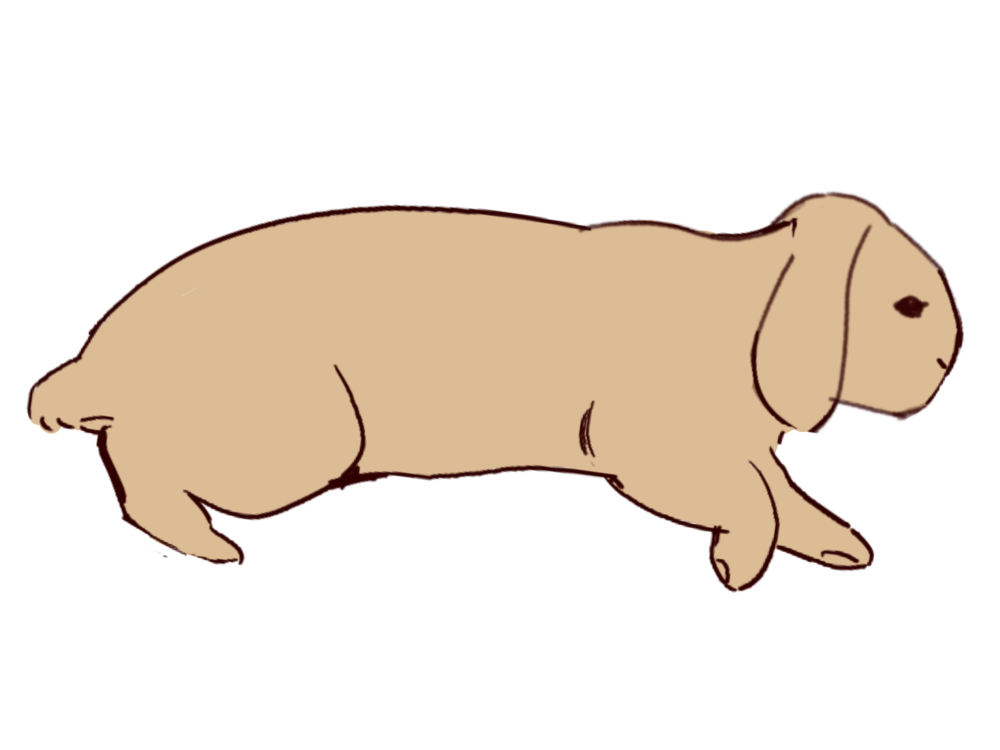
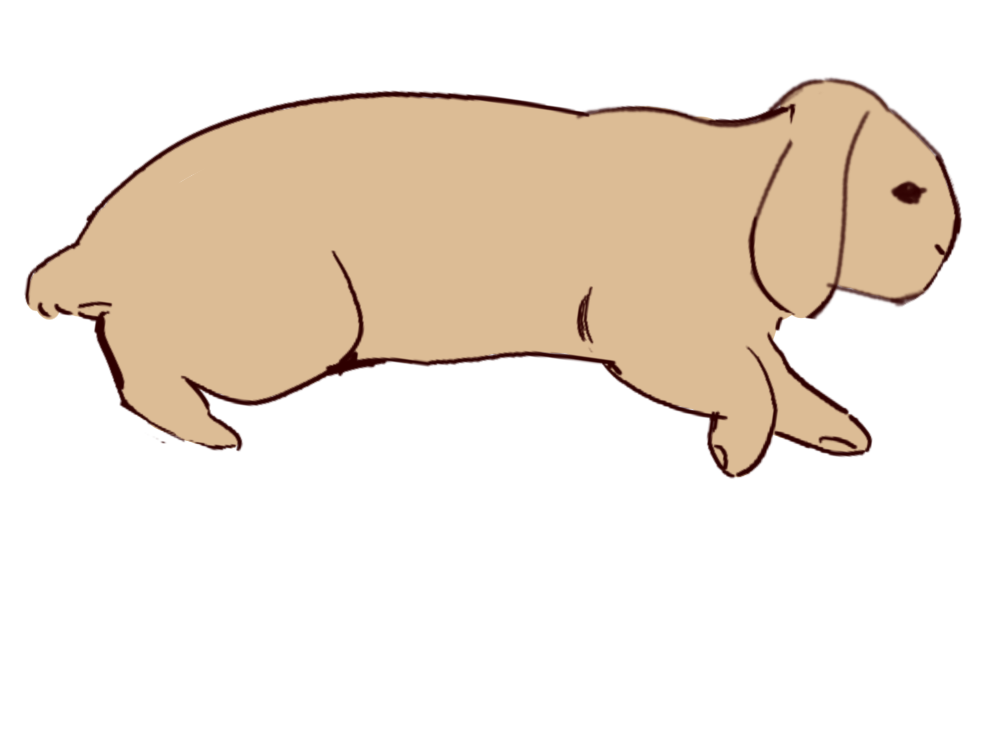
rabbit animation
updated rabbit + imported more images

diff --git a/libraries/phenakistoscope.bundle.js b/libraries/phenakistoscope.bundle.js
@@ -1,3 +1,3 @@
-const FRAME_RATE = 24
+const FRAME_RATE = 18
 
 !function(e){var n={};function t(i){if(n[i])return n[i].exports;var o=n[i]={i:i,l:!1,exports:{}};return e[i].call(o.exports,o,o.exports,t),o.l=!0,o.exports}t.m=e,t.c=n,t.d=function(e,n,i){t.o(e,n)||Object.defineProperty(e,n,{enumerable:!0,get:i})},t.r=function(e){"undefined"!=typeof Symbol&&Symbol.toStringTag&&Object.defineProperty(e,Symbol.toStringTag,{value:"Module"}),Object.defineProperty(e,"__esModule",{value:!0})},t.t=function(e,n){if(1&n&&(e=t(e)),8&n)return e;if(4&n&&"object"==typeof e&&e&&e.__esModule)return e;var i=Object.create(null);if(t.r(i),Object.defineProperty(i,"default",{enumerable:!0,value:e}),2&n&&"string"!=typeof e)for(var o in e)t.d(i,o,function(n){return e[n]}.bind(null,o));return i},t.n=function(e){var n=e&&e.__esModule?function(){return e.default}:function(){return e};return t.d(n,"a",n),n},t.o=function(e,n){return Object.prototype.hasOwnProperty.call(e,n)},t.p="",t(t.s=0)}([function(e,n,t){e.exports=t(1)},function(e,n,t){"use strict";t.r(n);var i=new function(){this.phenakistoscope=void 0,this.ccapturer=void 0,this.p5=void 0,this.gfx=void 0,this.canvas=void 0};function o(e,n){for(var t=0;t<n.length;t++){var i=n[t];i.enumerable=i.enumerable||!1,i.configurable=!0,"value"in i&&(i.writable=!0),Object.defineProperty(e,i.key,i)}}var a=function(){function e(n){!function(e,n){if(!(e instanceof n))throw new TypeError("Cannot call a class as a function")}(this,e),this._total_images_to_load=0,this._loaded_images=0,this._images={},this._image_sequences={}}var n,t,a;return n=e,(t=[{key:"load_image",value:function(e,n){this._total_images_to_load++,this._images[e]=i.p5.loadImage("./assets/"+e+"."+n,this.image_loaded.bind(this))}},{key:"load_image_sequence",value:function(e,n,t){this._total_images_to_load+=t,this._image_sequences[e]=[];for(var i=0;i<t;++i)this._image_sequences[e][i]=loadImage("assets/"+e+"/"+e+"_"+i+"."+n,this.image_loaded.bind(this))}},{key:"draw_image",value:function(e,n,t,i){n.image(this._images[e],t,i)}},{key:"draw_image_from_sequence",value:function(e,n,t,i,o){var a=this._image_sequences[e].length,r=Math.floor(n*a)%a;t.image(this._image_sequences[e][r],i,o)}},{key:"all_images_loaded",value:function(){return this._loaded_images>=this._total_images_to_load}},{key:"image_loaded",value:function(){this._loaded_images++}}])&&o(n.prototype,t),a&&o(n,a),e}();function r(e,n){for(var t=0;t<n.length;t++){var i=n[t];i.enumerable=i.enumerable||!1,i.configurable=!0,"value"in i&&(i.writable=!0),Object.defineProperty(e,i.key,i)}}var s=function(){function e(n){!function(e,n){if(!(e instanceof n))throw new TypeError("Cannot call a class as a function")}(this,e),this._resolution=n,this._output_function=function(){},this._image_loader=new a,this._ccapturer=i.ccapturer,this._dynamic_scale=!1,this._lock_scale=!1,this._pre_render=function(){},this._post_render=function(){},this._draw_slits=!1}var n,t,o;return n=e,(t=[{key:"set_default_values",value:function(e){this._layers=[],this._resolution=e,this._wedge_size=1e3,this._print=!1,this._capture_frame=0,this._slice_count=20,this._direction=-1}},{key:"scale_for_screen",value:function(e){(e=void 0===e||e)&&!this._lock_scale?(setup_new_canvas(min(window.innerWidth,window.innerHeight),min(window.innerWidth,window.innerHeight)),this._dynamic_scale||(window.addEventListener("resize",this.scale_for_screen.bind(this)),this._dynamic_scale=!0)):(window.removeEventListener("resize",this.scale_for_screen.bind(this)),this._dynamic_scale=!1)}},{key:"draw",value:function(){if(this._image_loader.all_images_loaded()){this._pre_render();for(var e=0;e<this._layers.length;e++)this._current_layer=e,push(),this._layers[e].draw_boundaries=this._show_boundaries,this._output_function(this._layers[e]),pop();this._post_render()}}},{key:"render_slits",value:function(){if(this._draw_slits){push(),rotate(-90),stroke(0),noFill(),scale(.5),rotate(360/this._slice_count/2);for(var e=0;e<this._slice_count;e++)rotate(360/this._slice_count),rect(this._wedge_size-this._wedge_size/3,-15,this._wedge_size/3+50,30);pop()}}},{key:"draw_disk_mask",value:function(){push(),fill(255),stroke(0),strokeWeight(this.display_scale),beginShape(),vertex(-10,-10),vertex(width+10,-10),vertex(width+10,height+10),vertex(-10,height+10),beginContour();for(var e=this._wedge_size/2*this.display_scale,n=0;n<100;++n)vertex(width/2+cos(3.6*-n)*e,height/2+sin(3.6*-n)*e);endContour(),endShape(),pop()}},{key:"add_layer",value:function(e){this._layers.push(e),e.parent_pScope=this}},{key:"output_mode",value:function(e){this._output_function=e}},{key:"begin_capture_if_ready",value:function(){0==this._capture_frame&&this._ccapturer.start()}},{key:"capture",value:function(){this._capture_frame<this.slice_count?(this._ccapturer.capture(i.canvas),this._capture_frame++):this._capture_frame>=this.slice_count&&(this._ccapturer.stop(),this._ccapturer.save())}},{key:"set_direction",value:function(e){this._direction=e}},{key:"set_slice_count",value:function(e){this._slice_count=e}},{key:"draw_layer_boundaries",value:function(e){this._show_boundaries=e}},{key:"draw_slits",value:function(e){this._draw_slits=e}},{key:"fill_background",value:function(){var e;(e=this._layers[this._current_layer]).fill_background.apply(e,arguments)}},{key:"load_image",value:function(e,n){this._image_loader.load_image(e,n)}},{key:"load_image_sequence",value:function(e,n,t){this._image_loader.load_image_sequence(e,n,t)}},{key:"draw_image",value:function(e,n,t){this._image_loader.draw_image(e,i.p5,n,t)}},{key:"draw_image_from_sequence",value:function(e,n,t,o){this._image_loader.draw_image_from_sequence(e,o,i.p5,n,t)}},{key:"print",set:function(e){this._print=e},get:function(){return this._print}},{key:"pre_render",set:function(e){this._pre_render=e}},{key:"post_render",set:function(e){this._post_render=e}},{key:"lock_scale",set:function(e){this._lock_scale=e}},{key:"resolution",get:function(){return this._resolution}},{key:"frame",get:function(){return this._frame}},{key:"slice_count",get:function(){return this._slice_count}},{key:"direction",get:function(){return this._direction}},{key:"display_scale",get:function(){return this._print?1:this._resolution/(this._wedge_size+0)}},{key:"slice_angle",get:function(){return 360/this._slice_count}},{key:"wedge_size",get:function(){return this._wedge_size}}])&&r(n.prototype,t),o&&r(n,o),e}(),u=function(e){return function(n){var t,i,o;push(),c(e),n.set_animation_variables(0),push(),n.draw_function(0,0,e),pop(),t=0,i=0,o=2,push(),stroke(255,0,0),line(t,i,t-o,i-o),line(t,i,t+o,i-o),line(t,i,t-o,i+o),line(t,i,t+o,i+o),pop(),pop()}},_=function(e){return function(n,t){t=void 0===t?0:t,push(),c(e),rotate(t),function(e,n){push(),scale(.5);for(var t=e.slice_angle,i=0;i<e.slice_count;i++)push(),rotate(i*t),l(e,n,i),pop();pop()}(e,n),pop(),push(),c(e),e.render_slits(),pop(),push(),e.draw_disk_mask(),pop()}};function c(e){translate(width/2,height/2),scale(e.display_scale,e.display_scale)}function l(e,n,t){push(),n.animation_function(t,n.boundary.low,n.boundary.high),pop(),n.draw_boundry()}var d=function(e){return function(n){push(),this.set_animation_variables(n/(e.slice_count+0)),this.background_function(this.animation_variables,e),this.draw_function(0,0,this.animation_variables,e),pop()}};function h(e){return(h="function"==typeof Symbol&&"symbol"==typeof Symbol.iterator?function(e){return typeof e}:function(e){return e&&"function"==typeof Symbol&&e.constructor===Symbol&&e!==Symbol.prototype?"symbol":typeof e})(e)}function f(e,n){for(var t=0;t<n.length;t++){var i=n[t];i.enumerable=i.enumerable||!1,i.configurable=!0,"value"in i&&(i.writable=!0),Object.defineProperty(e,i.key,i)}}function p(){}var y=function(){function e(n){for(var t=this,o=arguments.length,a=new Array(o>1?o-1:0),r=1;r<o;r++)a[r-1]=arguments[r];!function(e,n){if(!(e instanceof n))throw new TypeError("Cannot call a class as a function")}(this,e),n=n||p,this._draw_function=n.bind(this);var s=h(a[0]);this._background_function="function"===s?a[0].bind(this):"undefined"!==s?function(){var e;return(e=t.fill_background).call.apply(e,[t].concat(a))}:function(){},this._animation_function=d(i.phenakistoscope).bind(this),this._do_draw_boundaries=!0,this.set_boundary(0,1e3),i.phenakistoscope.add_layer(this)}var n,t,o;return n=e,(t=[{key:"set_boundary",value:function(e,n){this._bounds={low:e,high:n}}},{key:"set_animation_variables",value:function(e){this._animation_variables={frame:e,wave:function(n){return n=void 0===n?1:n,(i.p5.sin(360*e*n)+1)/2}}}},{key:"mode",value:function(e){this._animation_function=e.bind(this)}},{key:"fill_background",value:function(){push(),fill.apply(void 0,arguments),stroke.apply(void 0,arguments),this.draw_wedge(),pop()}},{key:"draw_boundry",value:function(){this._do_draw_boundaries&&(noFill(),stroke(0),this.draw_wedge())}},{key:"draw_wedge",value:function(){push(),rotate(-90),beginShape(),this.arc(this.boundary.high,1),this.arc(this.boundary.low,-1),endShape(i.p5.CLOSE),pop()}},{key:"arc",value:function(e,n){for(var t=-n*this._pScope.slice_angle/2,i=n*this._pScope.slice_angle/20,o=0;o<=20;++o)vertex(cos(t)*e,sin(t)*e),t+=i}},{key:"parent_pScope",set:function(e){this._pScope=e}},{key:"draw_boundaries",set:function(e){this._do_draw_boundaries=e}},{key:"draw_function",get:function(){return this._draw_function}},{key:"animation_function",get:function(){return this._animation_function}},{key:"background_function",get:function(){return this._background_function}},{key:"boundary",get:function(){return this._bounds}},{key:"animation_variables",get:function(){return this._animation_variables}}])&&f(n.prototype,t),o&&f(n,o),e}(),w=function(e){window.PLayer=y,window.SYMBOL_ONLY=u(e),window.STATIC_FRAME=function(e){return function(n){push(),c(e),translate(0,e._wedge_size/2),n.draw_boundry(),n.animation_function(0,n.boundary.low,n.boundary.high),pop()}}(e),window.ANIMATED_FRAME=function(e){return function(n){push(),c(e),translate(0,e._wedge_size/2),n.draw_boundry(),n.animation_function(frameCount%e.slice_count,n.boundary.low,n.boundary.high),pop()}}(e),window.STATIC_DISK=_(e),window.ANIMATED_DISK=function(e){return function(n){push();var t=frameCount%e.slice_count;STATIC_DISK(n,e.direction*e.slice_angle*t),pop()}}(e),window.OUTPUT_GIF=function(e){return function(n){return setup_new_canvas(n,n),e.scale_for_screen(!1),e.lock_scale=!0,e.pre_render=function(){e.begin_capture_if_ready()},e.post_render=function(){e.capture()},function(e){ANIMATED_DISK(e)}}}(e),window.OUTPUT_PRINT=function(e){return function(n){return n=void 0===n?{x:2480,y:3508}:n,setup_new_canvas(n.x,n.y),e.scale_for_screen(!1),e.lock_scale=!0,function(e){push(),STATIC_DISK(e,0),pop()}}}(e),window.SWIRL=function(e){return function(n){return function(t,i,o){var a=(o-i)/(n+0);this.set_animation_variables(t/e.slice_count),this.background_function(this.animation_variables,e);for(var r=0;r<n;++r){var s=-(i+(r*a+lerp(0,a,t/e.slice_count)));this.set_animation_variables((abs(s)-i)/abs(o-i)),push(),translate(0,s),this.draw_function(0,0,this.animation_variables,e),pop()}}}}(e),window.RING=d(e),window.CW=1,window.CCW=-1,window.A4={x:2480,y:3508},window.A3={x:3508,y:4960}},g=new p5;window.setup=function(){angleMode(DEGREES),imageMode(CENTER),frameRate(FRAME_RATE),pixelDensity(1),i.ccapturer=new CCapture({format:"gif",workersPath:"./libraries/",framerate:FRAME_RATE,verbose:!0}),i.phenakistoscope=new s(1e3),w(i.phenakistoscope),setup_new_canvas(i.phenakistoscope.resolution,i.phenakistoscope.resolution),setup_pScope(i.phenakistoscope)},window.draw=function(){background(255),i.phenakistoscope.draw()},window.setup_new_canvas=function(e,n){i.p5=g,i.gfx=createCanvas(e,n).drawingContext,i.canvas=i.gfx.canvas;var t=Math.min(e,n);i.phenakistoscope.set_default_values(.9*t),setup_layers(i.phenakistoscope)}}]);

diff --git a/my_phenakistoscope.js b/my_phenakistoscope.js
@@ -1,31 +1,32 @@
-const SLICE_COUNT = 10;
+const SLICE_COUNT = 12;
 
 function setup_pScope(pScope){
-  pScope.output_mode(ANIMATED_DISK);
+  pScope.output_mode(STATIC_DISK);
   pScope.scale_for_screen(true);
   pScope.draw_layer_boundaries(false);
   pScope.set_direction(CCW);
   pScope.set_slice_count(SLICE_COUNT);
 
-  pScope.load_image_sequence("rabbit", "png", 2);
+  pScope.load_image_sequence("rabbit", "png", 3);
   pScope.load_image("cloud", "png");
+  pScope.load_image("grass1", "png");
 }
 
 function setup_layers(pScope){
 
-  new PLayer(null, 220);  //lets us draw the whole circle background, ignoring the boundaries
+  new PLayer(null, 220);  // circle background
 
   var layer1 = new PLayer(sky);
   layer1.mode( RING );
   layer1.set_boundary( 0, 2000 );
 
   var layer2 = new PLayer(dandelions);
-  layer2.mode( SWIRL(5) );
+  layer2.mode( SWIRL(10) );
   layer2.set_boundary( 0, 2000 );
 
   var layer3 = new PLayer(centre);
   layer3.mode( RING );
-  layer3.set_boundary( 0, 400 );
+  layer3.set_boundary( 0, 2000 );
 
   var layer4 = new PLayer(rabbit);
   layer4.mode(RING);
@@ -61,28 +62,24 @@ function sky(x, y, animation, pScope){
 
 function dandelions(x, y, animation, pScope){
 scale(animation.frame*2);
-ellipse(0,0,150,150); // cloud placeholder
+ellipse(0,0,100,100); // dandelion placeholder
 
 }
 
+
 function centre(x, y, animation, pScope){
 
-  // this is how you set up a background for a specific layer
-  let angleOffset = (360 / SLICE_COUNT) / 2
-  let backgroundArcStart = 270 - angleOffset;
-  let backgroundArcEnd = 270 + angleOffset;
+  scale(.4)
+  pScope.draw_image("grass1", 0, 0)
 
-  scale(1.2);
-  fill(145, 222, 135)
-  arc(x,y,600,800,backgroundArcStart,backgroundArcEnd); // draws "pizza slice" in the background
-
+  scale(1)
   fill(255) // gatsby
-  ellipse(-50,-300-animation.wave()*50,60,40) // .wave is a cosine wave btw
+  ellipse(-50,-300-animation.wave()*50,60,40) 
   fill(1)
   ellipse(-70,-300-animation.wave()*50,10,10)
 
   fill(150) // astro
-  ellipse(50,-300-animation.wave()*50,60,40) // .wave is a cosine wave btw
+  ellipse(50,-300-animation.wave()*50,60,40) 
   fill(1)
   ellipse(70,-300-animation.wave()*50,10,10)
 
@@ -90,8 +87,8 @@ function centre(x, y, animation, pScope){
 
 function rabbit(x, y, animation, pScope){
 
-  scale(.4);
-  pScope.draw_image_from_sequence("rabbit", 0, -1500, animation.frame) // beef
+  scale(.35);
+  pScope.draw_image_from_sequence("rabbit", 0, -1800, animation.frame) // beef
 }
 
 function clouds(x, y, animation, pScope){
